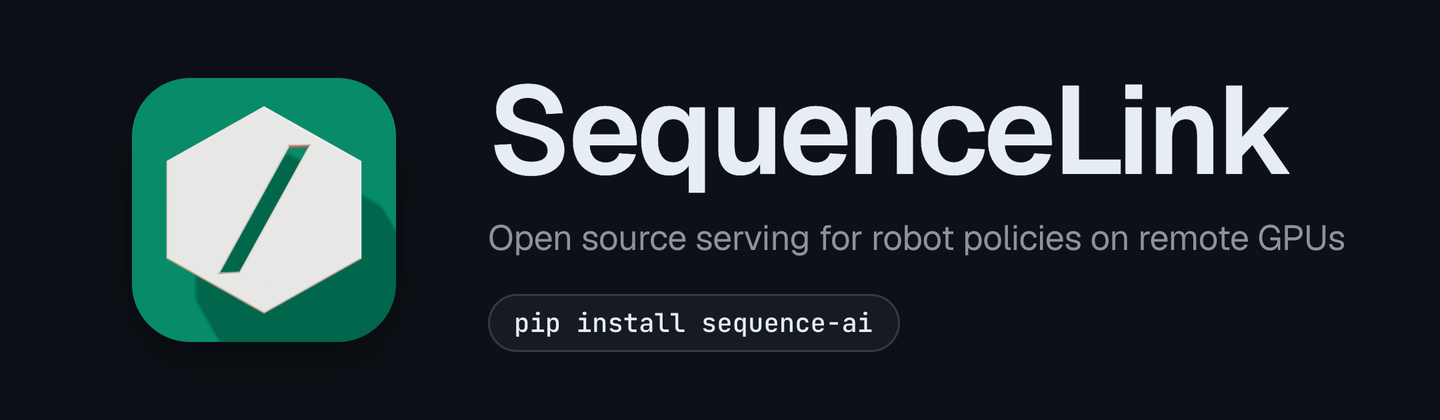
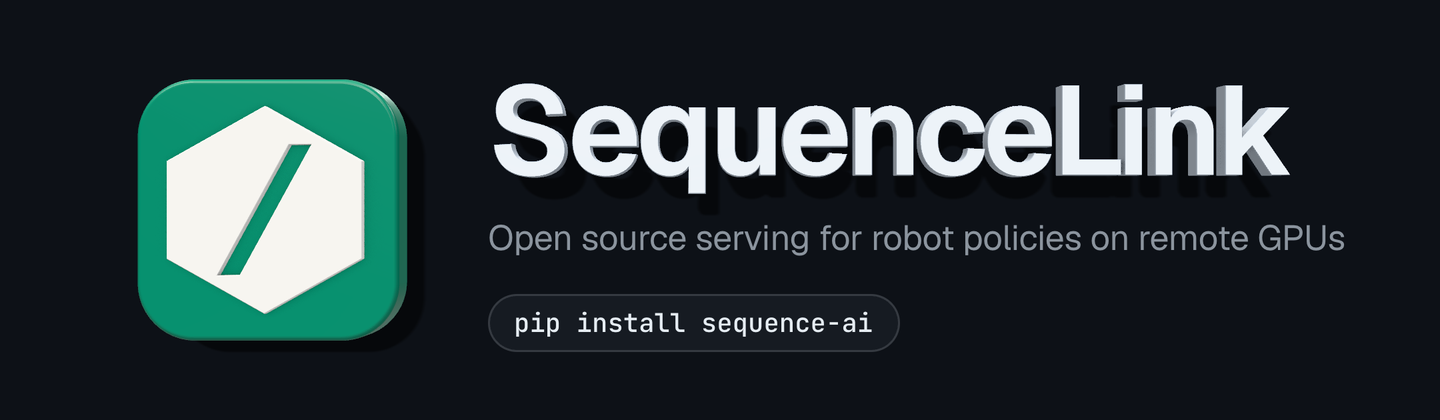
sequence-ai 0.65.0
`sequence-ai` is the open-source framework (a `@seq.policy` class served by `seq serve`, and `connect()` on the
robot), and `seq deploy`, evals and the platform's other commands move to a separate package, `sequence-cloud`.

Needs `pip install sequence-cloud --extra-index-url "https://$SEQUENCES_API_KEY@api.generalsequences.com/simple"` for
`seq deploy`, evals and the platform's other commands.

### Added

- `seq serve` keeps each speed-up that leaves the outputs exactly the same and makes acts at least 10% faster, and runs
  `--torch-compile`, `--fused-kernels`, `--tensorrt` and `--precision` only with the `--tolerance` you give.
- `sequence_ai.engine.load` packs a checkpoint (safetensors, .pth or orbax) into one file that loads onto the GPU in
  parallel reads.

### Changed

- `connect()` to your own server streams each observation with `observe()` as it is made, `act()` carries none, and a
  camera picture goes as a video keyframe unless `pictures="exact"`.

Changed region(s): [[0.3438, 0.1857, 0.9062, 0.4643], [0.0938, 0.1857, 0.2812, 0.8357]]

diff --git a/README.md b/README.md
@@ -6,27 +6,31 @@
 </p>
 
 <p align="center">
+  <picture>
+    <source media="(prefers-color-scheme: dark)" srcset="https://raw.githubusercontent.com/General-Sequences/sequence-ai/main/docs/hero-dark.png">
+    <img alt="Ten robot tables, each robot connected to one GPU" src="https://raw.githubusercontent.com/General-Sequences/sequence-ai/main/docs/hero-light.png" width="720">
+  </picture>
+</p>
+
+<p align="center">
   <a href="https://github.com/General-Sequences/sequence-ai/actions/workflows/tests.yml"><img alt="tests" src="https://github.com/General-Sequences/sequence-ai/actions/workflows/tests.yml/badge.svg"></a>
   <img alt="pip install sequence-ai" src="https://img.shields.io/badge/pip%20install-sequence--ai-15775C?style=flat-square">
   <img alt="Python 3.9 or later" src="https://img.shields.io/badge/python-3.9%2B-15775C?style=flat-square">
   <a href="https://github.com/General-Sequences/sequence-ai/blob/main/LICENSE"><img alt="license: Apache-2.0" src="https://img.shields.io/badge/license-Apache--2.0-15775C?style=flat-square"></a>
 </p>
 
-SequenceLink is an open-source framework for serving robot policies from remote GPUs over wide-area networks (WANs); its
-package is `sequence-ai`. It is used with openpi, LeRobot, GR00T and Octo policies, and with any policy written as a
-class: `seq serve` serves it from a GPU, and a robot connects to it with `connect()`.
+SequenceLink serves robot policies from GPUs anywhere: the policy runs on a GPU, and the robot connects to it over
+the internet. Its package is `sequence-ai`. It works with openpi, LeRobot, GR00T and Octo policies, and with any policy
+written as a class.
 
-Give it a policy server and a robot. The robot streams what it observes as it is made, each camera as low-latency
-video, and asks for actions on the latest of it: an act names an observation already sent, so sending one picture with
-each act is the case of one frame per act. On the GPU, it replays the module a model calls many times per inference
-from CUDA graphs, with exactly the same outputs, batches several robots' requests in the sizes a policy lists, and
-computes from the slack their action chunks leave how long each request may wait and how many robots one GPU answers
-in time. Together these are SequenceLink, and the same code is General Sequences' hosted platform. Each component is
-one file that can be added to existing code.
+- **The GPU** runs your policy with `seq serve`. It answers each robot with a chunk of actions, can batch robots that ask
+  at the same time (`@seq.concurrent`), and speeds the model up without changing its outputs.
+- **The robot** connects with `connect()`. It streams its cameras as low-latency video and plays the actions, asking
+  for the next chunk before the current one runs out.
 
 <p align="center">
-  <a href="#quick-start">Quick start</a> ·
   <a href="#how-it-fits-together">Architecture</a> ·
+  <a href="#quick-start">Quick start</a> ·
   <a href="#the-problem-by-layer">The problem</a> ·
   <a href="#inference-layer">Inference layer</a> ·
   <a href="#network-layer">Network layer</a> ·
@@ -34,23 +38,33 @@ one file that can be added to existing code.
   <a href="#documentation">Docs</a>
 </p>
 
+## How it fits together
+
+<p align="center">
+  <picture>
+    <source media="(prefers-color-scheme: dark)" srcset="https://raw.githubusercontent.com/General-Sequences/sequence-ai/main/docs/architecture-dark.png">
+    <img alt="How it fits together. On the robot: your control loop over sequence_ai.network (connect, openpi, window, frames, wifi_power). Across the WAN, the observation goes to the GPU and the action chunk comes back. On the GPU: your policy over sequence_ai.engine (serve, optimize, load, batcher, replicas, slack) and sequence_ai.network (one_write, ping, tcp_link). Both ends: msgpack_io and latency_stats. Your own link, measured: bench/." src="https://raw.githubusercontent.com/General-Sequences/sequence-ai/main/docs/architecture-light.png" width="900">
+  </picture>
+</p>
+
+**`sequence_ai.network`** is the connection between a robot and the GPU its policy runs on. On the robot, `connect()`
+applies the client-side components to one connection, and `openpi.keep()` does the same on the connection that openpi's
+own client holds. On the server, `one_write` and `ping` wrap a uvicorn or a WebSocket server. **`sequence_ai.engine`**
+is the inference layer on the GPU: `seq serve` serves a policy with the server's side of both layers on, `optimize`
+shortens one inference with the speed-ups that keep its outputs exactly the same, `batcher` and `slack` share a GPU among robots, and `replicas` runs one process per GPU. **`bench/`** measures a link before anything is added to it.
+
 ## Install
 
 ```bash
-python3 -m venv .venv && source .venv/bin/activate   # Homebrew's and Debian's python3 refuse pip install outside one
-pip install sequence-ai      # both sides, every component, and the camera's video encoder
+pip install sequence-ai
 ```
 
-The open-source framework: the `@seq.policy` decorators and `seq serve`, `connect()` to an address, the inference and
-network components (`sequence_ai.engine`, `sequence_ai.network`), `chat()`, and `seq init` and `seq weights get`, which
-fetch an official template to serve on your own GPU. Python 3.10 or later, on Linux or macOS (3.9 runs `connect()` and
-the components, not `seq` or video). The speed-ups use the torch your model already has (2.4 or later), or its JAX.
-Each component is one file, and most import only the standard library, so copying a file into your project works as
-well.
+The same package goes on the GPU and on the robot: Python 3.10 or later, on Linux or macOS. The speed-ups use your
+model's own torch (2.4 or later) or JAX.
 
 ## Quick start
 
-A policy is a class. Save this as `policy.py`, in a folder of its own:
+**On the GPU**, save this as `policy.py` in a folder of its own:
 
 ```python
 import numpy as np
@@ -70,20 +84,17 @@ class QuickstartPolicy_user:
         return {"actions": np.full((10, 7), float(frame_user.mean()), dtype=np.float32)}
 ```
 
-`@seq.policy` says how its answers play: `hz` steps a second, the first `action_chunk_valid_len` steps of each, the next
-one asked for at step `action_chunk_replan_at`. `@seq.sample` is an episode as your robot plays it, which the model is
-warmed up on before it serves, and `@seq.infer` answers the latest observation with a chunk of actions whose first
-dimension is time. Serve it from your GPU, here this machine, in that folder:
+Then serve it from that folder:
 
 ```bash
 seq serve
 ```
 
 ```text
-serving quickstart-policy-user on port 8000: a robot connects with sequence_ai.connect("http://<this machine>:8000")
+serving quickstart-policy-user on port 8000, each robot held and seated by its time at 15 Hz: a robot connects with sequence_ai.connect("http://<this machine>:8000")
 ```
 
-On the robot, here a second terminal:
+**On the robot**:
 
 ```python
 import numpy as np
@@ -96,54 +107,16 @@ with sequence_ai.connect("http://127.0.0.1:8000") as policy_user:     # your GPU
     print(policy_user.act()["actions"].shape)                           # (10, 7)
 ```
 
-A robot plays an answer a step at a time at `hz`, asks for the next one in the background at `action_chunk_replan_at`
-so that it never waits for one, and holds still while the connection is down:
-[Quickstart: a policy and a robot](https://github.com/General-Sequences/sequence-ai/blob/main/docs/quickstart.md) has
-that loop, about thirty lines, with the output of each step. An official template is served the same way: `seq init
-pi05-libero my_pi05_user` writes its folder, and `seq serve` in it serves it
-([How do I run a template on my own GPU?](https://github.com/General-Sequences/sequence-ai/blob/main/docs/how-do-i-run-a-template-on-my-own-gpu.md)).
-You can serve a policy on a GPU of your own, as here, or deploy it to
-[General Sequences](https://generalsequences.com/docs/deploy/).
+The robot plays 15 steps a second (`hz`), uses the first 8 steps of each chunk (`action_chunk_valid_len`), and asks for
+the next chunk at step 5 (`action_chunk_replan_at`). [Quickstart](https://github.com/General-Sequences/sequence-ai/blob/main/docs/quickstart.md) has the whole loop. Names ending in
+`_user` are yours to change.
 
-Both sides' defaults are on: a frame marked `Video` goes as low-latency video (H.264, a keyframe every second), a
-depth map marked `Depth` losslessly, an act names the latest observation instead of sending it again, a ping keeps the
-connection between acts, and the policy runs on a thread of its own and is warmed up before the server says it is
-ready.
-[What is on by default](https://github.com/General-Sequences/sequence-ai/blob/main/docs/what-is-on-by-default.md) lists each part and how to turn it off, and
-`python -m sequence_ai.check http://your-gpu:8000` says which are on.
-
-The components also work in a policy server you already run, a file each:
-[Parts for a server you already run](https://github.com/General-Sequences/sequence-ai/blob/main/docs/parts-for-a-server-you-already-run.md)
-has `cuda_graphs`, batching and `slack`, and the openpi and LeRobot clients.
-
-Each name ending in `_user` is yours: your model, your frames, your handler. The repository's quick start runs on a
-laptop with no GPU and no model too:
-
-```bash
-git clone https://github.com/General-Sequences/sequence-ai && cd sequence-ai
-seq serve examples/quickstart_policy & python examples/quickstart_robot.py              # a policy and a robot
-```
-
-Its first line:
-
-```text
-the first answer: 8 steps of 7 joints, the first [128. 128. 128.]
-```
-
-## How it fits together
-
-<p align="center">
-  <picture>
-    <source media="(prefers-color-scheme: dark)" srcset="https://raw.githubusercontent.com/General-Sequences/sequence-ai/main/docs/architecture-dark.png">
-    <img alt="How it fits together. On the robot: your control loop over sequence_ai.network (connect, openpi, window, frames, wifi_power). Across the WAN, the observation goes to the GPU and the action chunk comes back. On the GPU: your policy over sequence_ai.engine (serve, optimize, load, batcher, replicas, slack) and sequence_ai.network (one_write, ping, tcp_link). Both ends: msgpack_io and latency_stats. Your own link, measured: bench/." src="https://raw.githubusercontent.com/General-Sequences/sequence-ai/main/docs/architecture-light.png" width="900">
-  </picture>
-</p>
-
-**`sequence_ai.network`** is the connection between a robot and the GPU its policy runs on. On the robot, `connect()`
-applies the client-side components to one connection, and `openpi.keep()` does the same on the connection that openpi's
-own client holds. On the server, `one_write` and `ping` wrap a uvicorn or a WebSocket server. **`sequence_ai.engine`**
-is the inference layer on the GPU: `seq serve` serves a policy with the server's side of both layers on, `optimize`
-shortens one inference with the speed-ups that keep its outputs exactly the same, `batcher` and `slack` share a GPU among robots, and `replicas` runs one process per GPU. **`bench/`** measures a link before anything is added to it.
+- **An official template**: `seq init pi05-libero my_pi05_user`, then `seq serve` in that folder
+  ([how](https://github.com/General-Sequences/sequence-ai/blob/main/docs/how-do-i-run-a-template-on-my-own-gpu.md)).
+- **Both halves on one machine**: in a clone of this repository, `seq serve examples/quickstart_policy & python examples/quickstart_robot.py`.
+- **A server you already run**: [its parts](https://github.com/General-Sequences/sequence-ai/blob/main/docs/parts-for-a-server-you-already-run.md), one file each.
+- **What is on by default**: [each part, and how to turn it off](https://github.com/General-Sequences/sequence-ai/blob/main/docs/what-is-on-by-default.md).
+- **GPUs run for you**: deploy the same folder to [General Sequences](https://generalsequences.com/docs/deploy/).
 
 ## The problem, by layer
 
